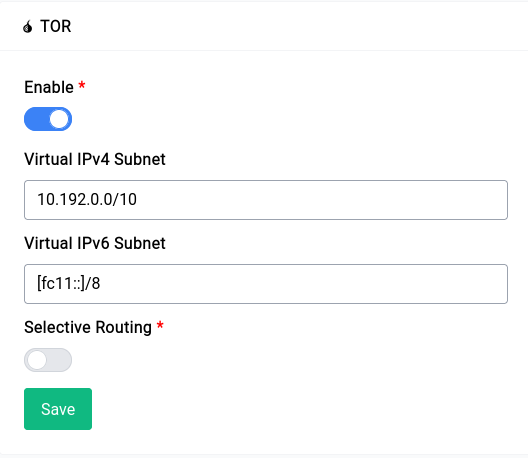
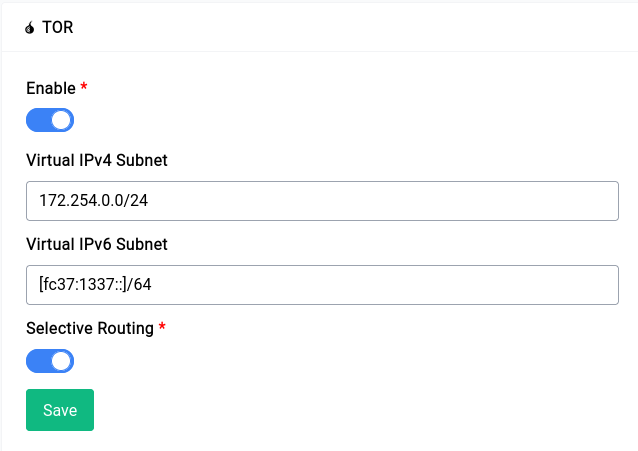
tor: change screencap, warning about using local subnet

Changed region(s): [[0.0303, 0.1552, 0.9697, 0.9623], [0.0303, 0.031, 0.1515, 0.0931]]

diff --git a/src/services/tor.md b/src/services/tor.md
@@ -16,6 +16,8 @@ The service page gives you a few options to configure the TOR client, let's go o
 
 This field is equivalent to the `VirtualAddrNetworkIPv4` option in the TOR configuration file. You can specify a virtual IPv4 subnet for the TOR client to use or just leave it as is to use the default.
 
+You should **not** use the same subnet as your local network, this will make it so that you can't access the GUI or SSH into your router, essentially locking you out.
+
 ## Virtual IPv6 Subnet
 
 This field is equivalent to the `VirtualAddrNetworkIPv6` option in the TOR configuration file. You can specify a virtual IPv6 subnet for the TOR client to use or just leave it as is to use the default.
@@ -35,3 +37,10 @@ This option takes care of all the firewall and DNS rules for you, all you have t
 ## Using TOR
 
 You can either enable selective routing or just use the TOR client as a proxy. If you want to use it as a proxy you can use `127.0.0.1:9050`, replace `127.0.0.1` with your router's IP address in our case it's `192.168.1.1` so the proxy address would be `192.168.1.1:9050`.
+
+You can visit the following onion URLs to test your connection:
+
+- [Wayback Machine](http://archiveiya74codqgiixo33q62qlrqtkgmcitqx5u2oeqnmn5bpcbiyd.onion/)
+- [Mullvad VPN](http://o54hon2e2vj6c7m3aqqu6uyece65by3vgoxxhlqlsvkmacw6a7m7kiad.onion/en)
+- [Proton Mail](https://protonmailrmez3lotccipshtkleegetolb73fuirgj7r4o4vfu7ozyd.onion/)
+- [DuckDuckGo](https://duckduckgogg42xjoc72x3sjasowoarfbgcmvfimaftt6twagswzczad.onion/)
